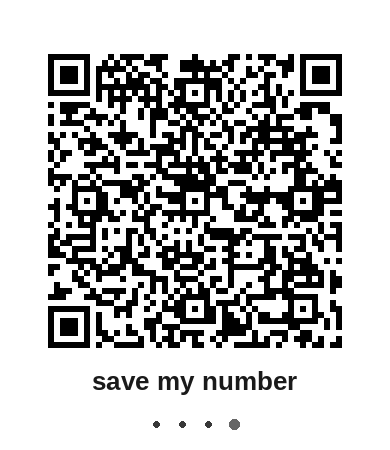
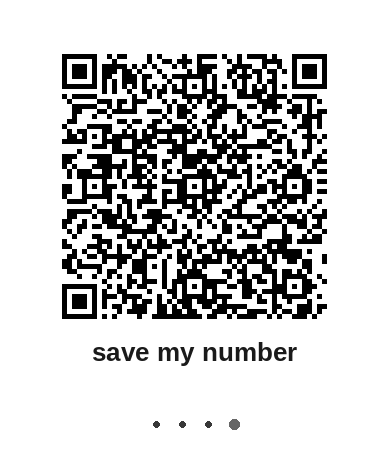
vCard: add N field so iOS shows Patrick, not the org, as the name
FN alone is ignored by iOS contact import; without N the card titles
itself with ORG ("v9n consulting"). Name is the person, org stays the
business field.

Claude-Session: https://claude.ai/code/session_01Mmkrk9sDkbVzoiBDNpD5EP

Changed region(s): [[0.1231, 0.0933, 0.8923, 0.9022]]

diff --git a/v9n-card-app/gen_cards.py b/v9n-card-app/gen_cards.py
@@ -24,6 +24,9 @@ LOGO_BLUE = (169, 199, 224)
 VCARD = "\r\n".join([
     "BEGIN:VCARD",
     "VERSION:3.0",
+    # N is required for iOS to show a person's name; FN alone gets ignored
+    # and the contact card falls back to ORG.
+    "N:van Staveren;Patrick;;;",
     "FN:Patrick van Staveren",
     "ORG:v9n consulting",
     "TEL;TYPE=CELL:+13124690036",
